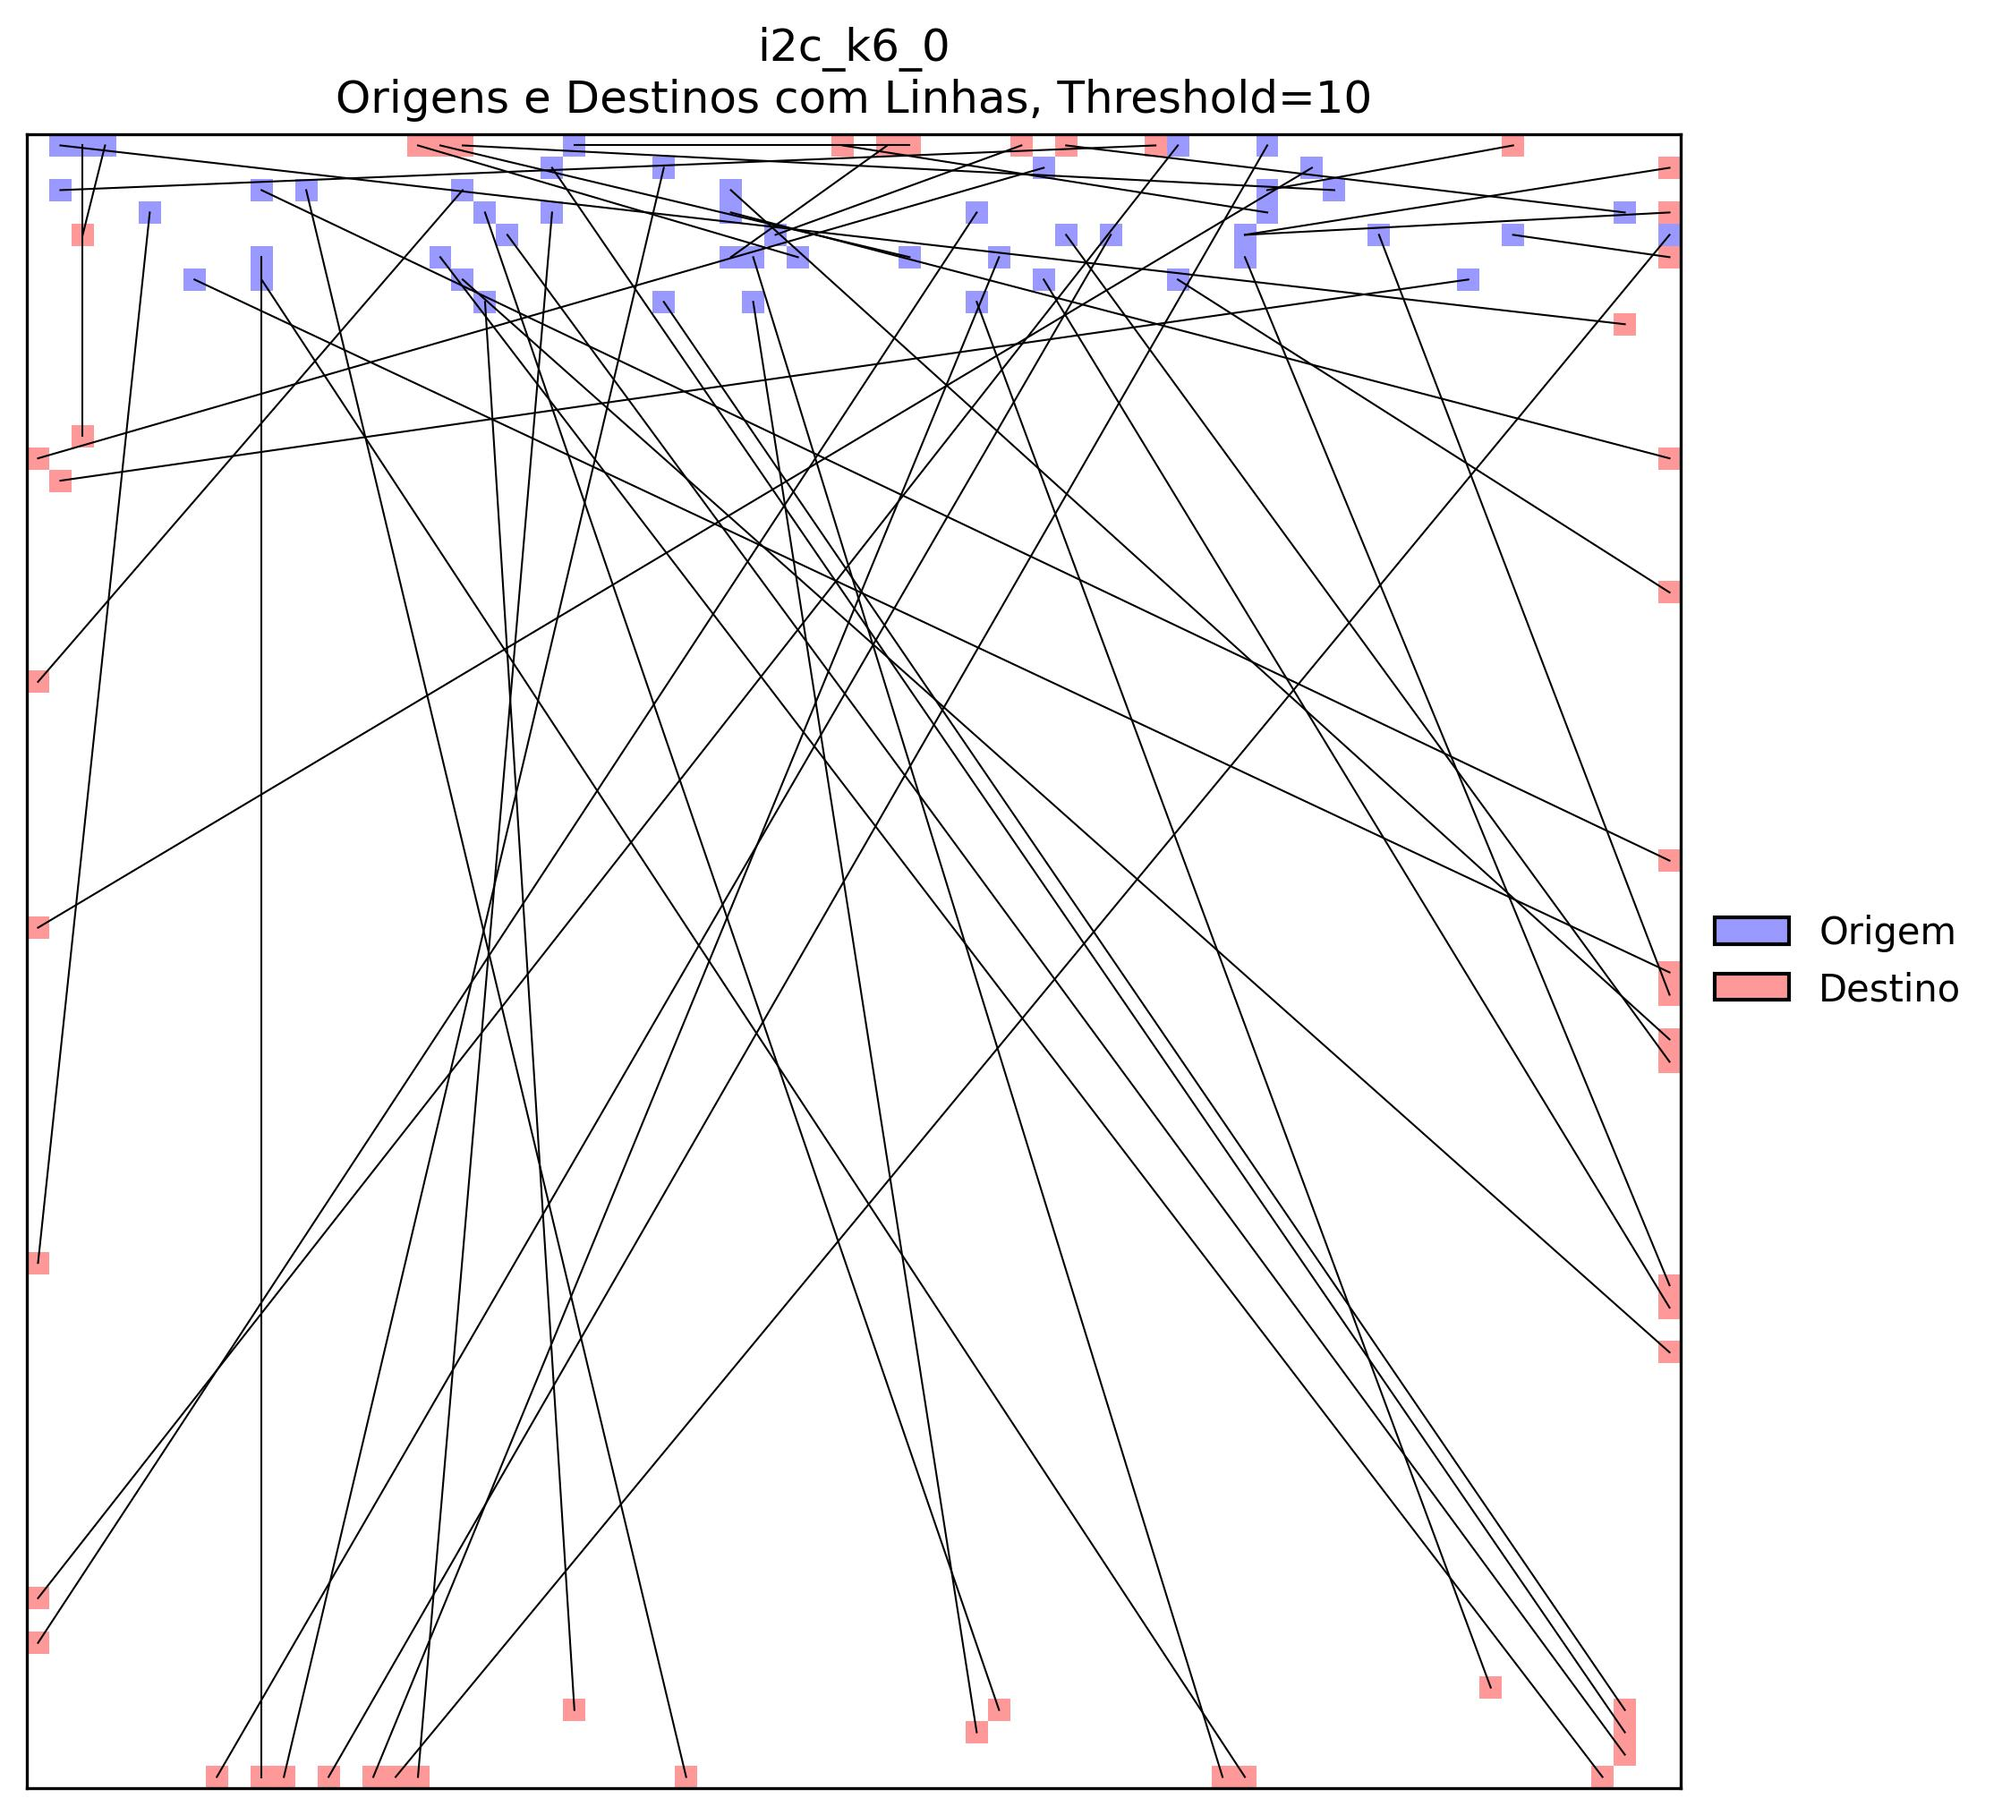
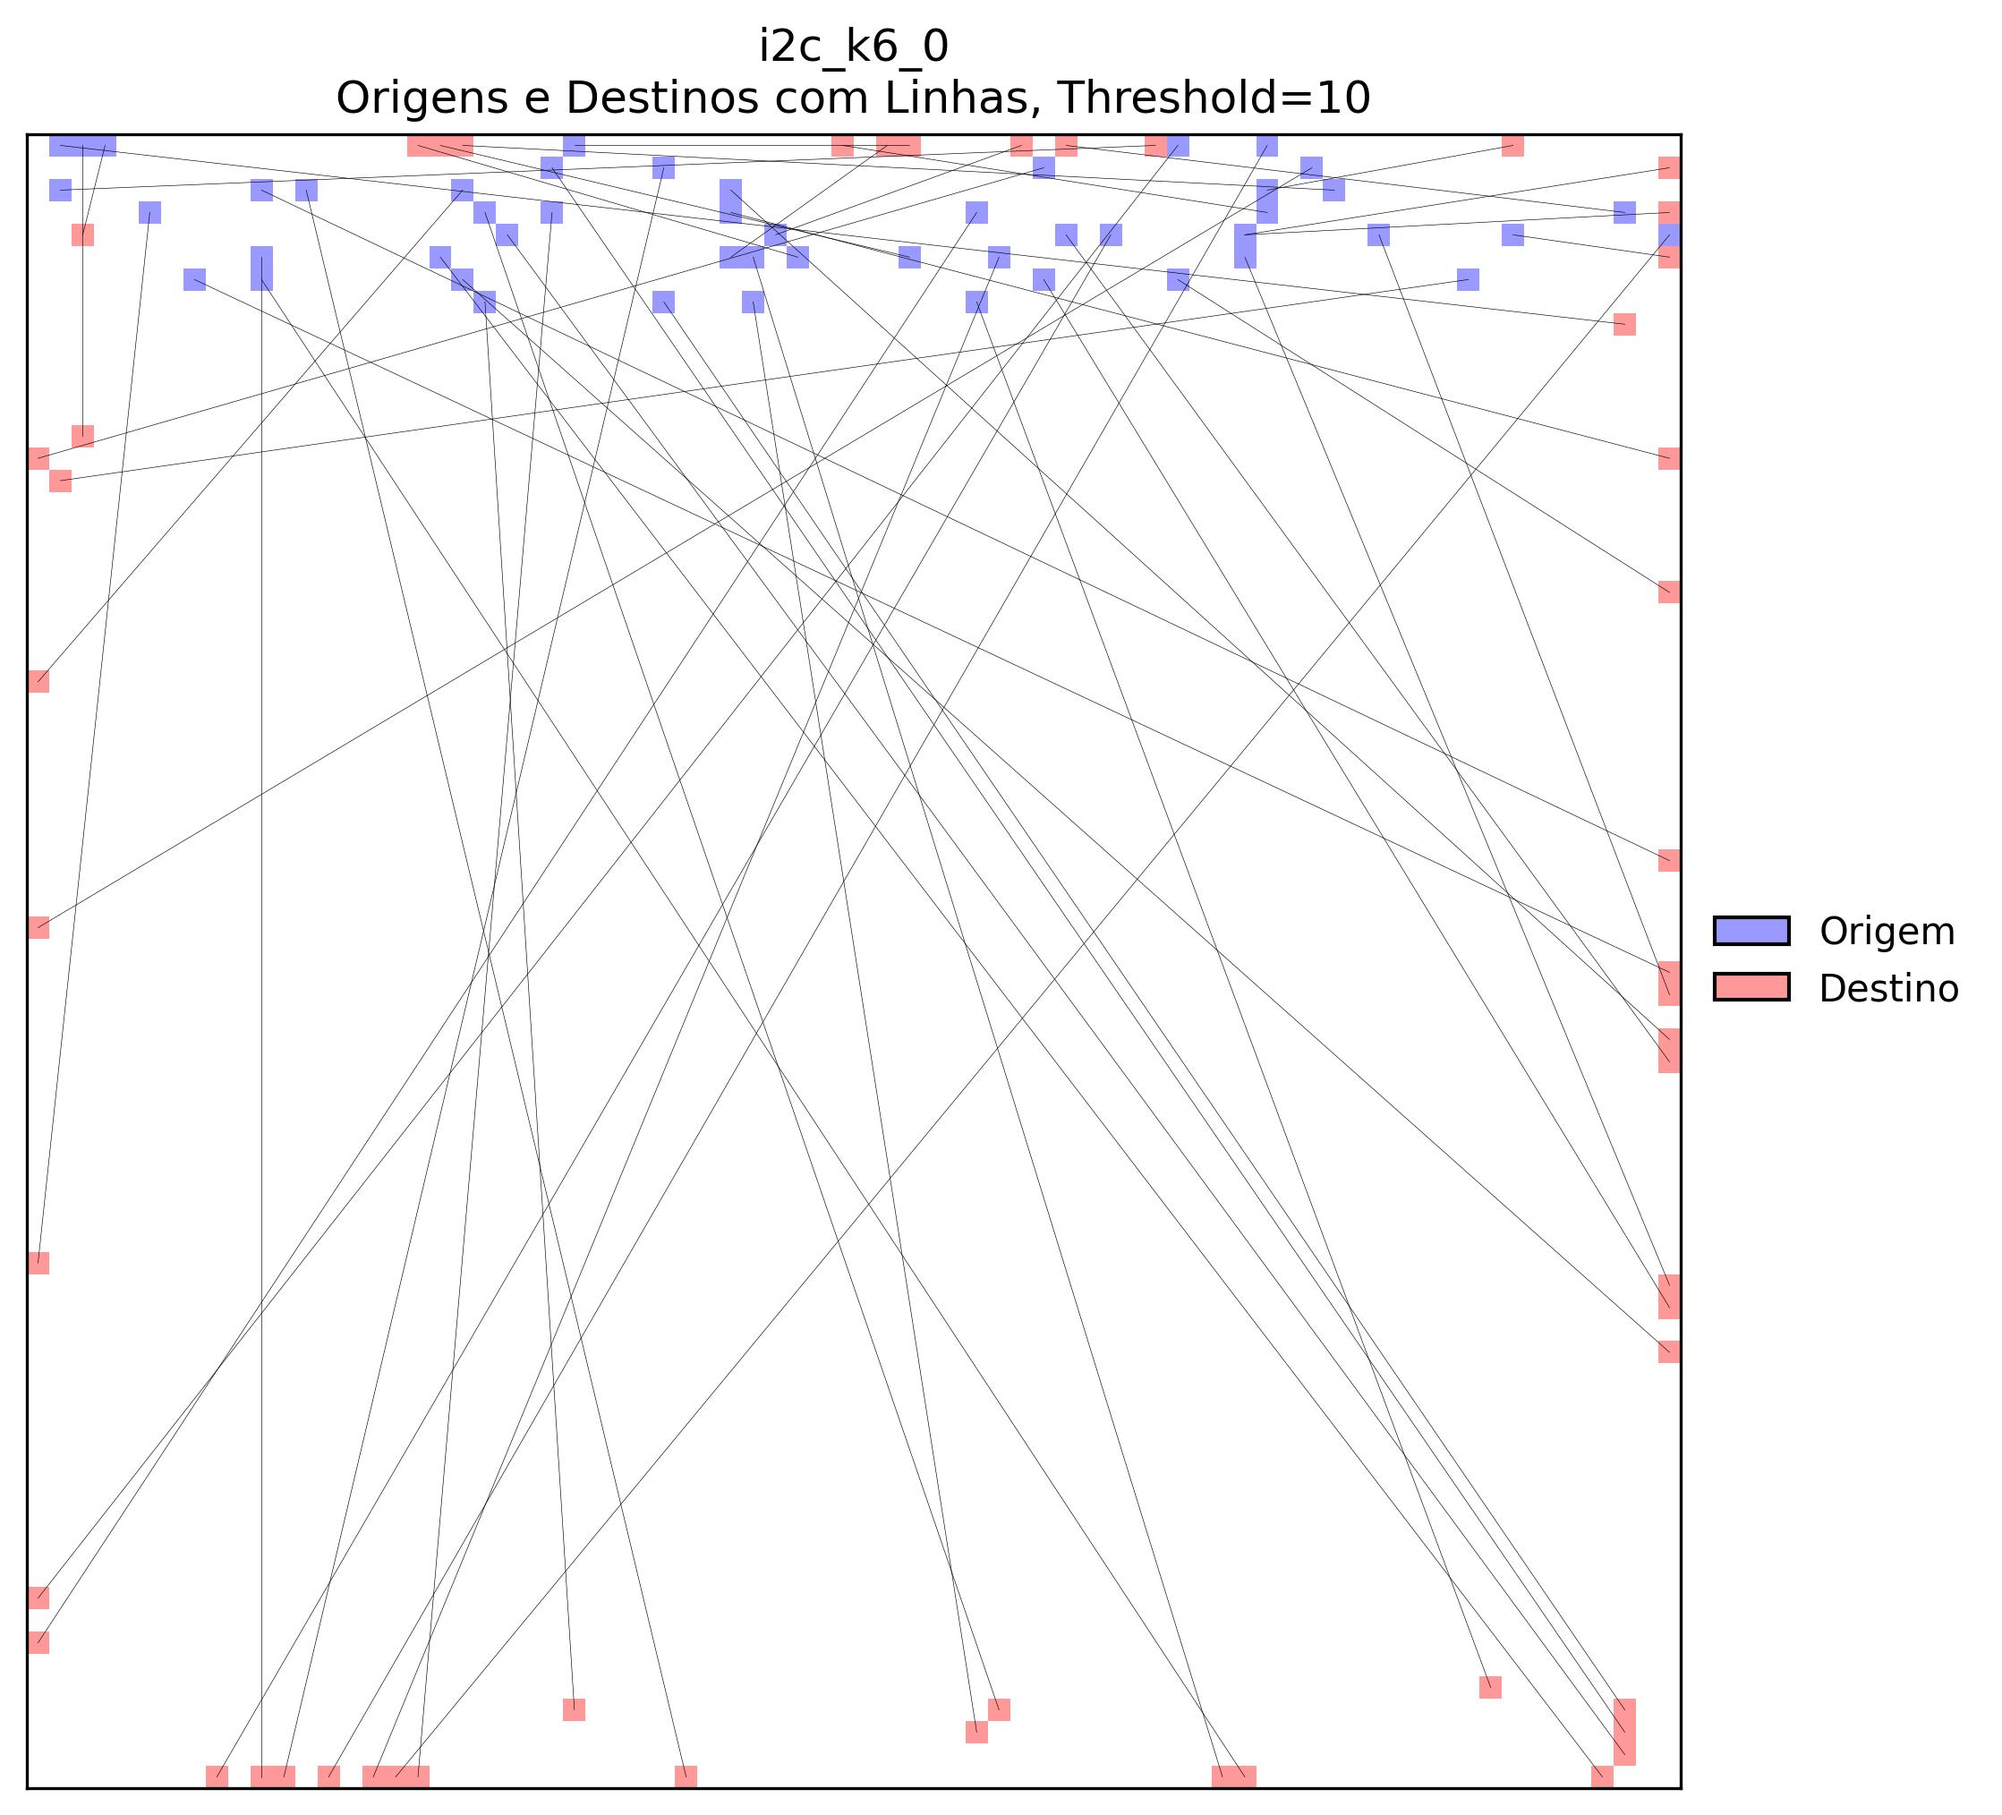
End of graphics and metrics implementation

diff --git a/ger_reports/graphs/ger_fpga_metrics.py b/ger_reports/graphs/ger_fpga_metrics.py
@@ -90,7 +90,7 @@ def draw_lines_between_cells(origins_to_dests, heat_end, output_path, title="", 
             dy, dx = divmod(dest, n)
             if heat_end[dy, dx] > threshold:
                 oy, ox = divmod(origin, n)
-                ax.plot([ox, dx], [oy, dy], color='black', linewidth=0.5)
+                ax.plot([ox, dx], [oy, dy], color='black', linewidth=0.15)
 
     plt.savefig(output_path, dpi=300, bbox_inches="tight")
     plt.close()
@@ -185,7 +185,7 @@ def process_json_metrics(folder_path):
 
         origins_to_dests = {int(k): v for k, v in data["orDest"].items()}
         output3 = os.path.join(folder_path, base_name + "_Lines.jpg")
-        #draw_lines_between_cells(origins_to_dests, heat_end, output3, base_name, "Origens e Destinos com Linhas")
+        draw_lines_between_cells(origins_to_dests, heat_end, output3, base_name, "Origens e Destinos com Linhas")
 
         hist_list = list(data["hist"].values())  # pega todos os dicionários num vetor
         #plot_histograms(hist_list, base_name, folder_path, base_name)
